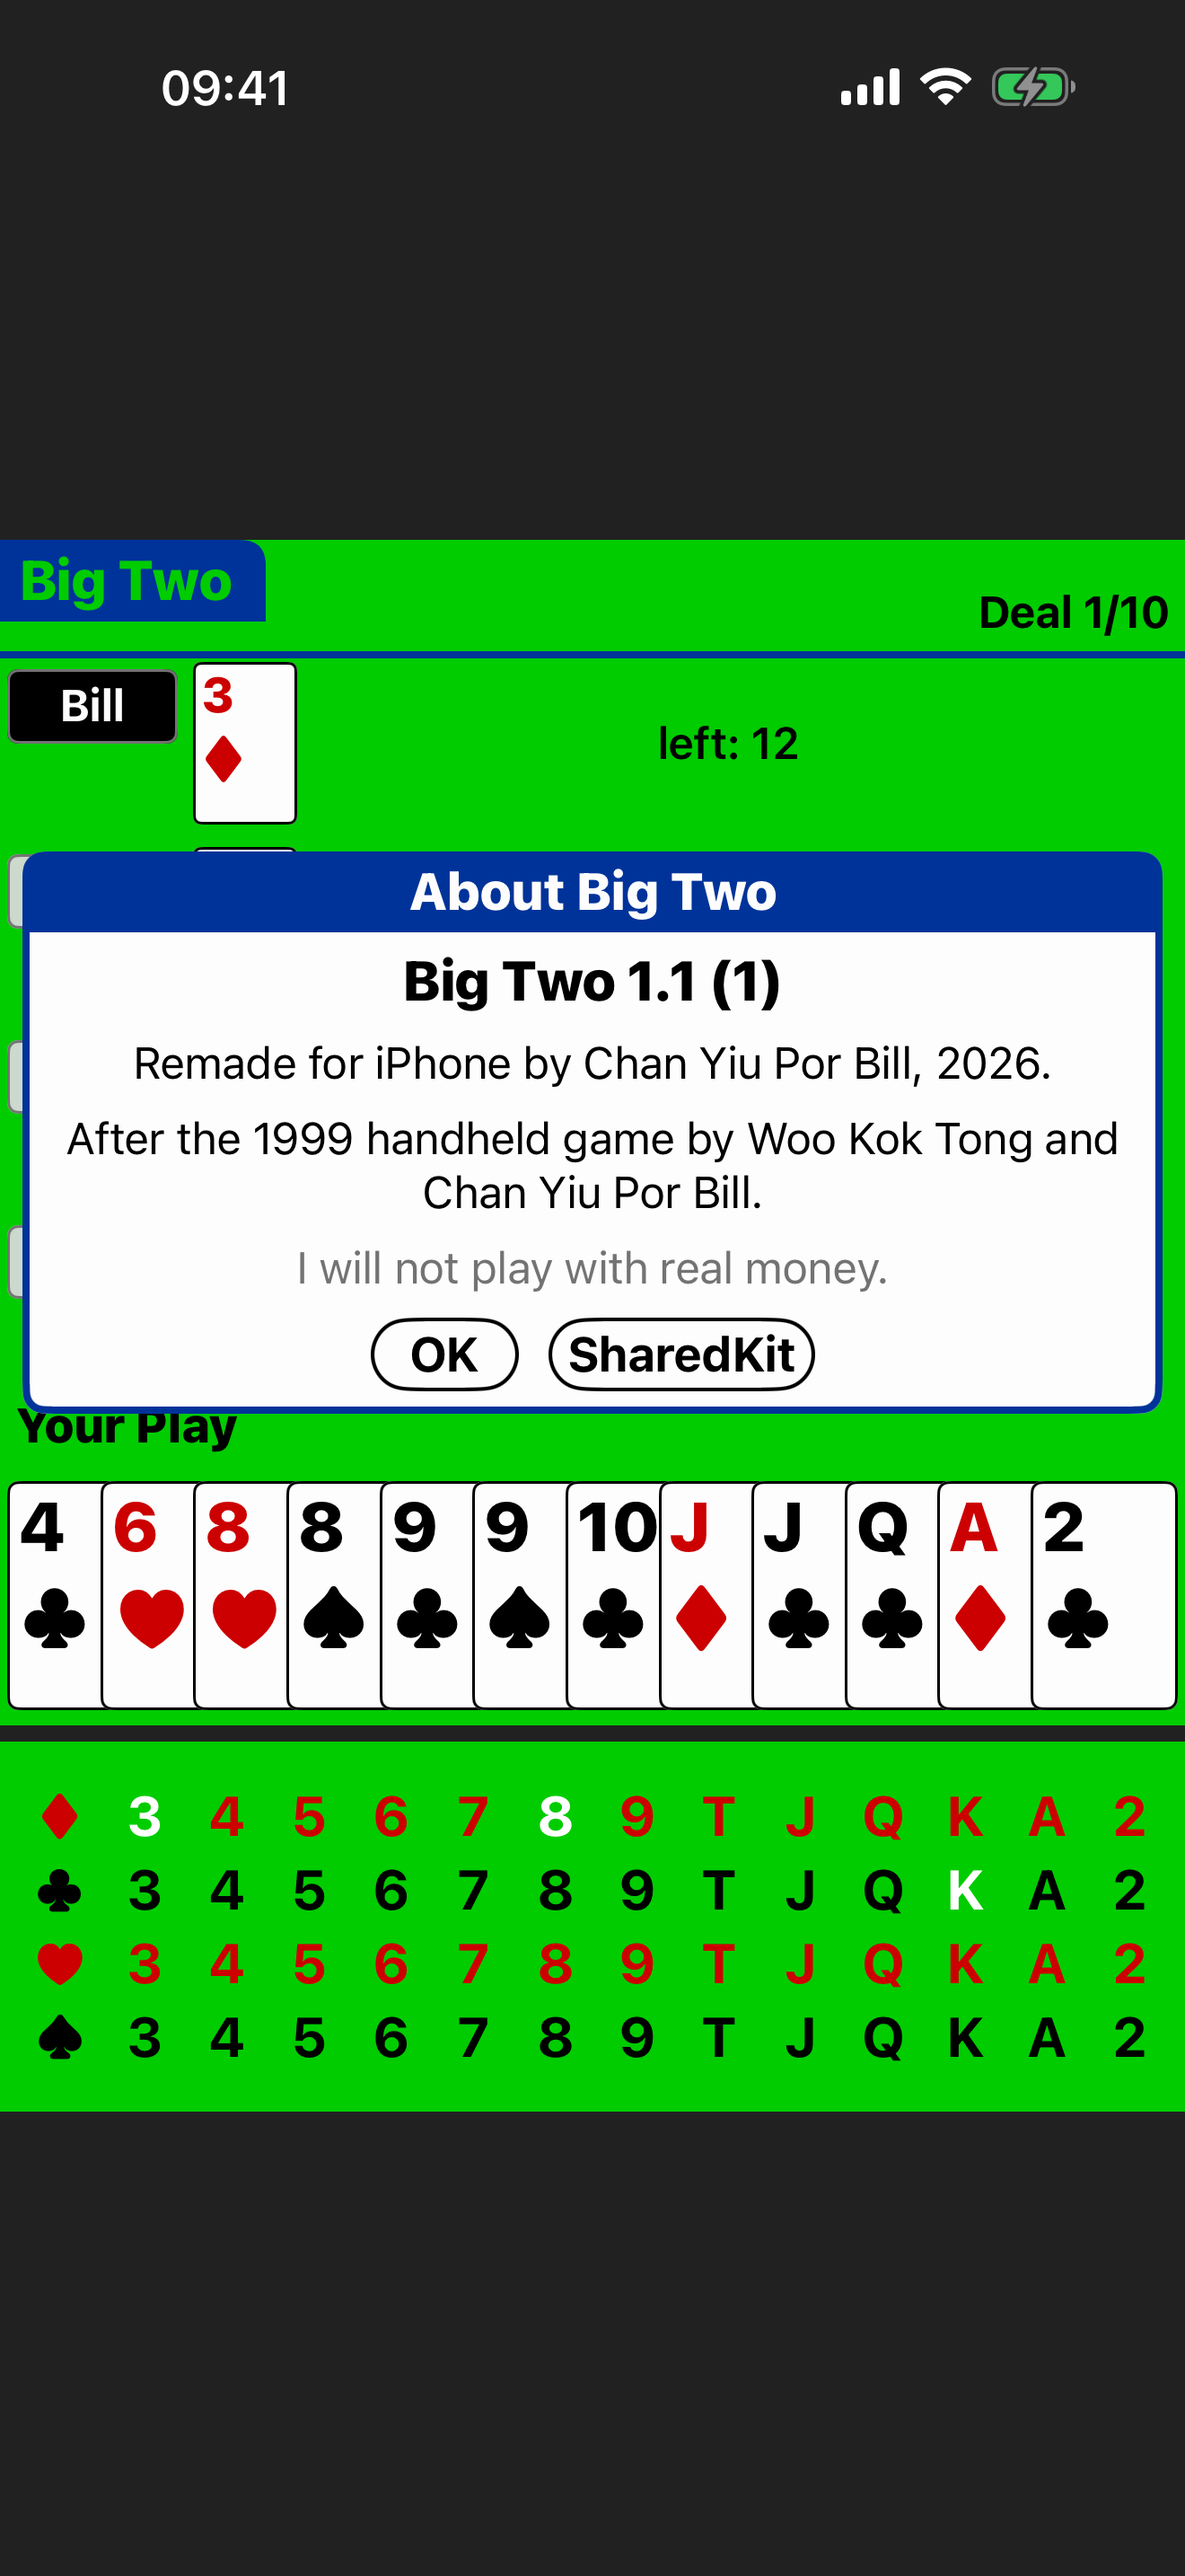
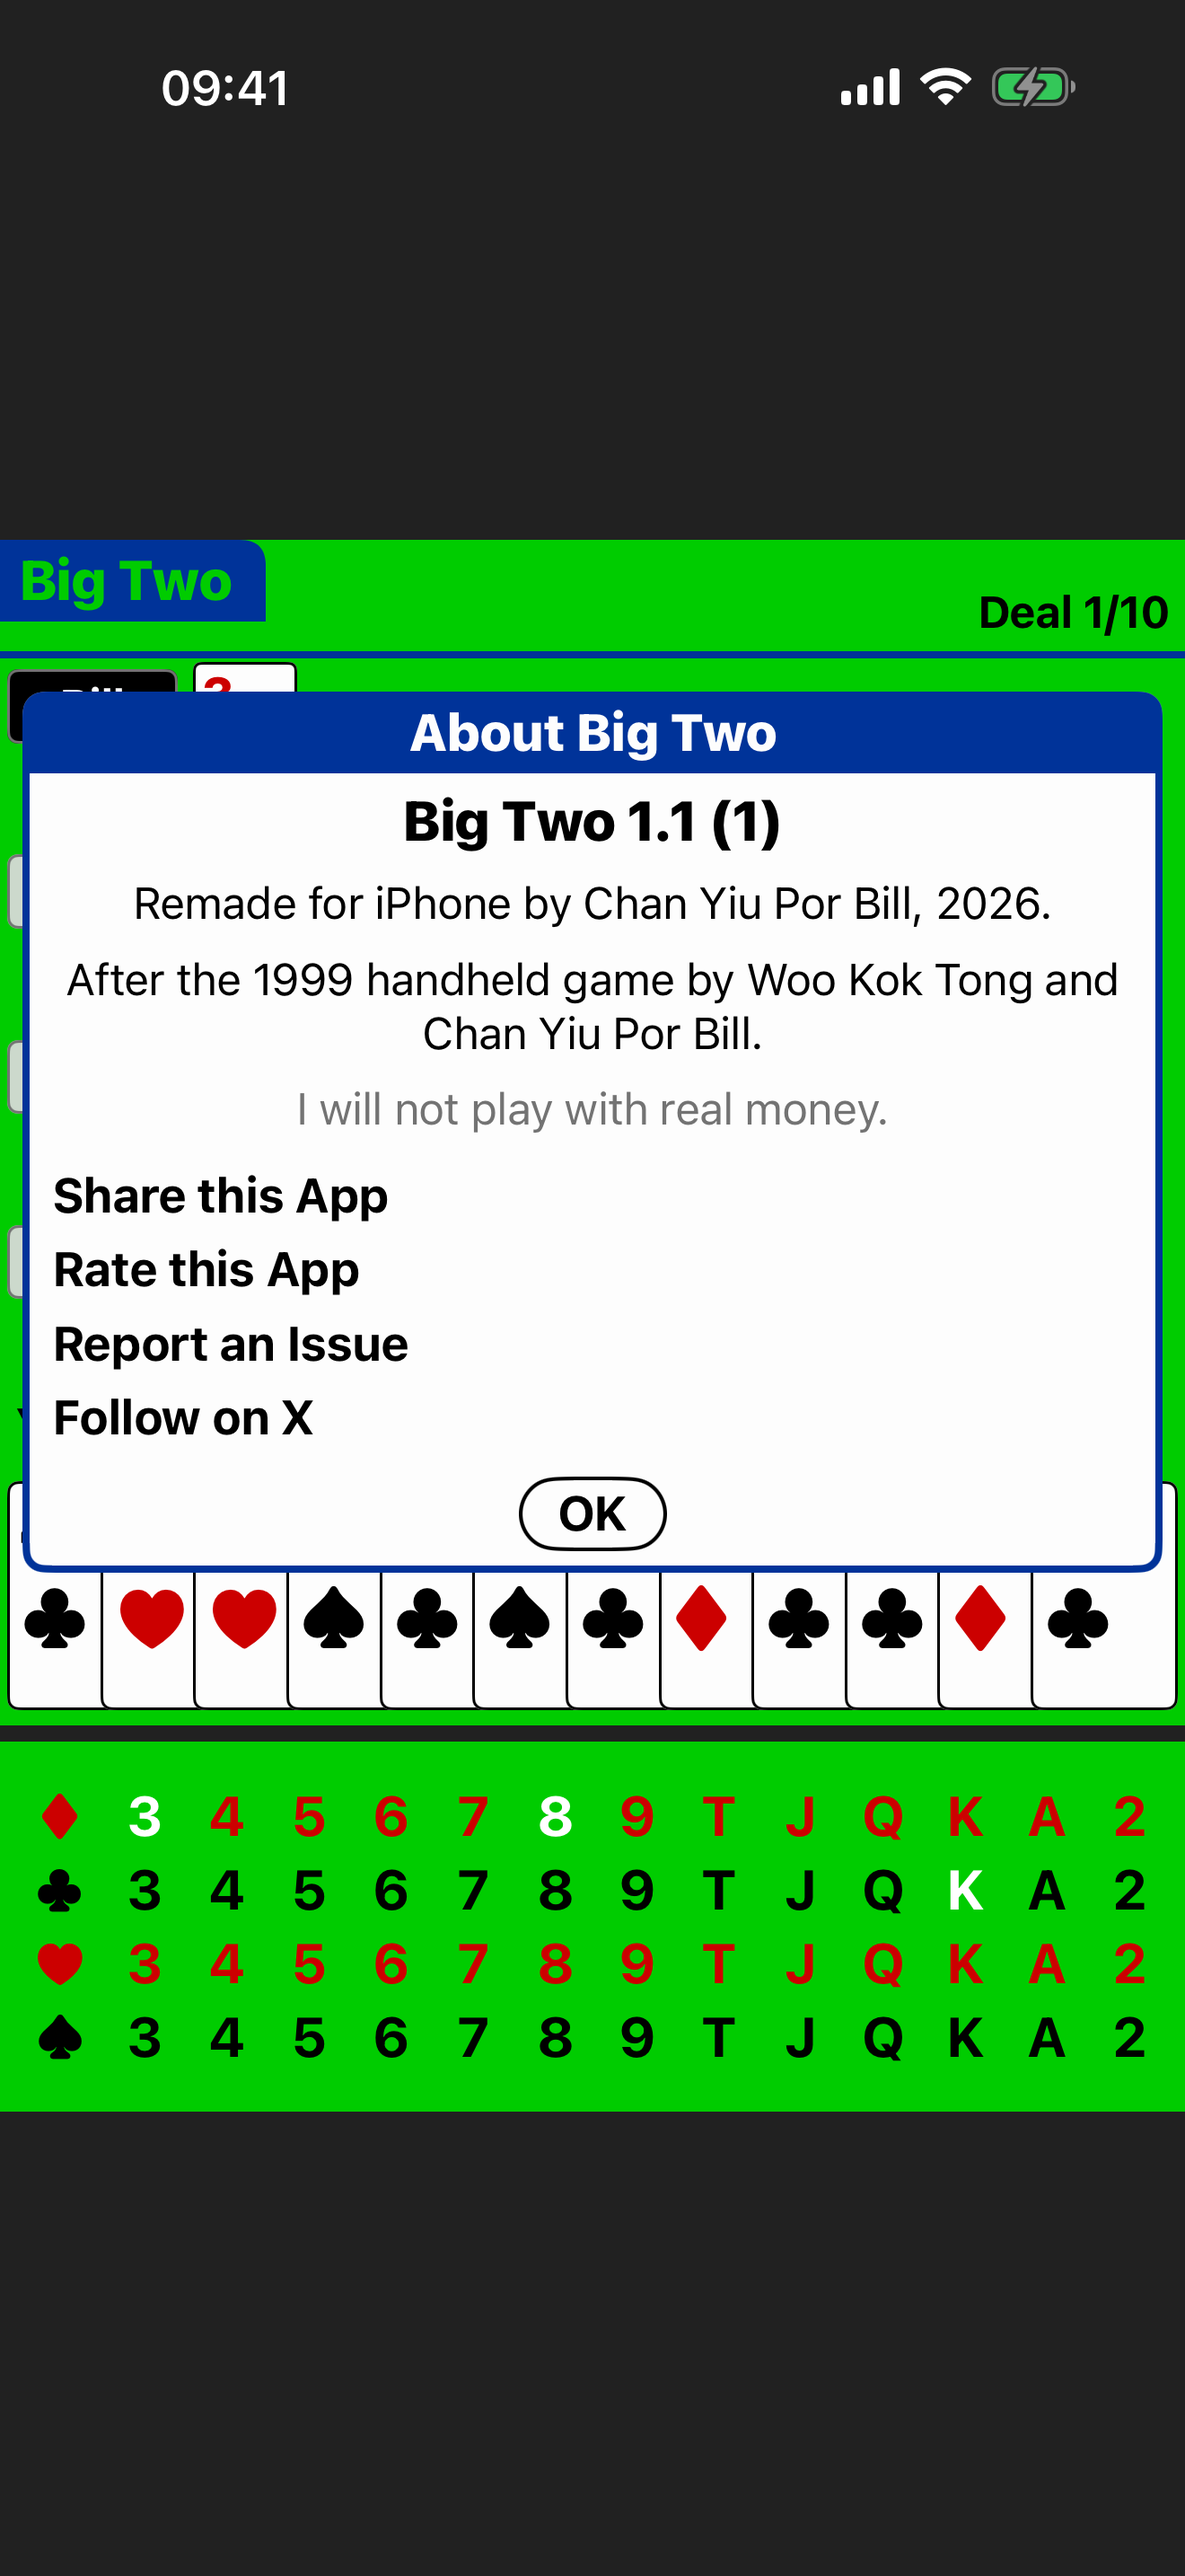
edit name

Changed region(s): [[0.0, 0.2483, 0.9939, 0.6206]]

diff --git a/BigTwoApp/Views/AboutDialogView.swift b/BigTwoApp/Views/AboutDialogView.swift
@@ -1,15 +1,19 @@
 //
 //  AboutDialogView.swift
-//  Big Two — version and credits.
+//  Big Two — version, credits, and support rows (share / rate / report / X).
+//  No SharedKit button. Do not import billypchan/SharedKit (iOS 17).
 //
 
+import StoreKit
 import SwiftUI
+import UIKit
 
 struct AboutDialogView: View {
   let onOK: () -> Void
 
   @Environment(\.palmUnit) private var u
   @Environment(\.openURL) private var openURL
+  @State private var shareItem: ShareItem?
 
   private var version: String {
     let info = Bundle.main.infoDictionary
@@ -21,26 +25,79 @@ struct AboutDialogView: View {
   var body: some View {
     PalmDialogView(title: L10n.string("About Big Two")) {
       VStack(spacing: 6 * u) {
-        Text(L10n.string("Big Two %@", version)).font(.palm(15 * u, .heavy))
-        Text(L10n.string("Remade for iPhone by Chan Yiu Por Bill, 2026."))
-        // ⚠ No other platform's name here or in the store copy (guideline 2.3.10).
-        Text(L10n.string("After the 1999 handheld game by Woo Kok Tong and Chan Yiu Por Bill."))
-        Text(L10n.string("I will not play with real money.")).foregroundColor(.inkDim)
+        VStack(spacing: 6 * u) {
+          Text(L10n.string("Big Two %@", version)).font(.palm(15 * u, .heavy))
+          Text(L10n.string("Remade for iPhone by Bill Chan, 2026."))
+          // ⚠ No other platform's name here or in the store copy (guideline 2.3.10).
+          Text(L10n.string("After the 1999 handheld game by Woo Kok Tong and Bill Chan."))
+          Text(L10n.string("I will not play with real money.")).foregroundColor(.inkDim)
+        }
+        .font(.palm(12 * u, .regular))
+        .multilineTextAlignment(.center)
+        VStack(alignment: .leading, spacing: 0) {
+          row("Share this App", id: "about_share", action: shareApp)
+          row("Rate this App", id: "about_rate", action: rateApp)
+          row("Report an Issue", id: "about_report") { open(Self.github) }
+          row("Follow on X", id: "about_x") { open(Self.twitter) }
+        }
       }
-      .font(.palm(12 * u, .regular))
-      .multilineTextAlignment(.center)
     } buttons: {
       PalmButtonView(title: L10n.string("OK"), width: 40, action: onOK)
         .accessibilityIdentifier("about_ok")
-      PalmButtonView(title: L10n.string("SharedKit"), width: 72, action: openSharedKit)
-        .accessibilityIdentifier("about_sharedkit")
+    }
+    .sheet(item: $shareItem) { item in
+      ActivityView(items: [item.url])
     }
   }
 
-  private func openSharedKit() {
-    guard let url = URL(string: "https://github.com/billypchan/SharedKit") else { return }
+  private func row(_ key: String, id: String, action: @escaping () -> Void) -> some View {
+    Button(action: action) {
+      Text(L10n.string(key))
+        .font(.palm(13 * u))
+        .foregroundColor(.ink)
+        .multilineTextAlignment(.leading)
+        .frame(maxWidth: .infinity, alignment: .leading)
+        // 20u, not 44pt: four rows plus credits have to fit the 320 square.
+        .frame(minHeight: 20 * u, alignment: .leading)
+        .contentShape(Rectangle())
+    }
+    .buttonStyle(PalmPressStyle())
+    .accessibilityIdentifier(id)
+  }
+
+  private func shareApp() {
+    if let url = Self.appStore { shareItem = ShareItem(url: url) }
+  }
+
+  private func rateApp() {
+    let scene = UIApplication.shared.connectedScenes
+      .compactMap { $0 as? UIWindowScene }
+      .first { $0.activationState == .foregroundActive }
+    guard let scene else { return }
+    SKStoreReviewController.requestReview(in: scene)
+  }
+
+  private func open(_ url: URL?) {
+    guard let url else { return }
     openURL(url)
   }
+
+  private static let appStore = URL(string: "https://apps.apple.com/app/id6811548119")
+  private static let github = URL(string: "https://github.com/billypchan/BigTwo")
+  private static let twitter = URL(string: "https://x.com/billchanios")
+}
+
+private struct ShareItem: Identifiable {
+  let url: URL
+  var id: String { url.absoluteString }
+}
+
+private struct ActivityView: UIViewControllerRepresentable {
+  let items: [Any]
+  func makeUIViewController(context: Context) -> UIActivityViewController {
+    UIActivityViewController(activityItems: items, applicationActivities: nil)
+  }
+  func updateUIViewController(_ controller: UIActivityViewController, context: Context) {}
 }
 
 #Preview {

diff --git a/BigTwoUITests/GameUITests.swift b/BigTwoUITests/GameUITests.swift
@@ -113,8 +113,15 @@ final class GameUITests: XCTestCase {
     app.buttons["menu_button"].tap()
     XCTAssertTrue(app.buttons["menu_about"].waitForExistence(timeout: 5))
     app.buttons["menu_about"].tap()
-    XCTAssertTrue(app.buttons["about_sharedkit"].waitForExistence(timeout: 5))
-    XCTAssertTrue(app.buttons["about_ok"].exists)
+    XCTAssertTrue(app.buttons["about_ok"].waitForExistence(timeout: 5))
+    XCTAssertTrue(app.element("about_share").waitForExistence(timeout: 5))
+    XCTAssertTrue(app.element("about_rate").exists)
+    XCTAssertTrue(app.element("about_report").exists)
+    XCTAssertTrue(app.element("about_x").exists)
+    XCTAssertFalse(app.buttons["about_sharedkit"].exists)
+    XCTAssertEqual(app.state, .runningForeground)
+    app.buttons["about_ok"].tap()
+    XCTAssertTrue(app.element("hand_3d").waitForExistence(timeout: 5))
   }
 
   func testSortIcon_togglesBetweenRankAndSuit() {

diff --git a/BigTwoApp/BigTwoApp.swift b/BigTwoApp/BigTwoApp.swift
@@ -1,7 +1,7 @@
 //
 //  BigTwoApp.swift
 //  Big Two — iOS remake of the Palm OS game.
-//  Original © Woo Kok Tong, 1999 · © Chan Yiu Por Bill, 2006 · GPL
+//  Original © Woo Kok Tong, 1999 · © Bill Chan, 2006 · GPL
 //
 
 import BigTwoKit

diff --git a/docs/test_runs.md b/docs/test_runs.md
@@ -43,3 +43,4 @@ evidence that a test can fail; they stay in the log.
 - 2026-09-19 22:42 — iOS (iPhone 17 Pro Max, 26.3) GameUITests+ScreenTour 8 passed then runner crash on first launch of `testAbout` / `testIllegalPlay`; rerun ✓ 2/2 those two. Screen tour extracted; score/final_score PNG diffs are deal numbers, not committed.
 - 2026-09-19 23:12 — BigTwoKit ✓ 63/63 (8 PlayerName tests; `resolvedNames` nonisolated). iOS (iPhone 17 Pro Max, 26.3) ✓ 1/1 `testNames_customNameShowsOnTheTableAndSurvivesARelaunch`
 - 2026-09-19 23:18 — iOS (iPhone 17 Pro Max, 26.3) ✓ 1/1 testScreenTour (+ Names; 06_names, 07_about, 08_score, 09_final_score). First run crashed after names_ok; waitForNonExistence then ✓.
+- 2026-09-19 23:22 — iOS (iPhone 17 Pro Max, 26.3) ✓ 2/2 testAbout_showsSharedKit + testScreenTour (About has share/rate/report/X, no SharedKit button)

diff --git a/CLAUDE.md b/CLAUDE.md
@@ -12,8 +12,7 @@ only what applies to this app is repeated here.
 
 ## Project
 
-iOS remake of **Big Two** (鋤大弟), originally a Palm OS game by Bill (Chan Yiu Por Bill,
-2006; earlier version by Woo Kok Tong, 1999). Original site, rules and full changelog:
+iOS remake of **Big Two** (鋤大弟), originally a Palm OS game by Bill Chan, 2006; earlier version by Woo Kok Tong, 1999. Original site, rules and full changelog:
 https://bigtwo-palmos.sourceforge.net — treat that page as the spec.
 
 **Brief: keep the design and feel of the Palm version.** Not a modern reinterpretation —

diff --git a/README.md b/README.md
@@ -93,5 +93,5 @@ Privacy: [PRIVACY.md](PRIVACY.md).
 
 ## Credits
 
-Big Two for Palm OS © Woo Kok Tong 1999, © Chan Yiu Por Bill 2006, GPL —
+Big Two for Palm OS © Woo Kok Tong 1999, © Bill Chan 2006, GPL —
 https://bigtwo-palmos.sourceforge.net
